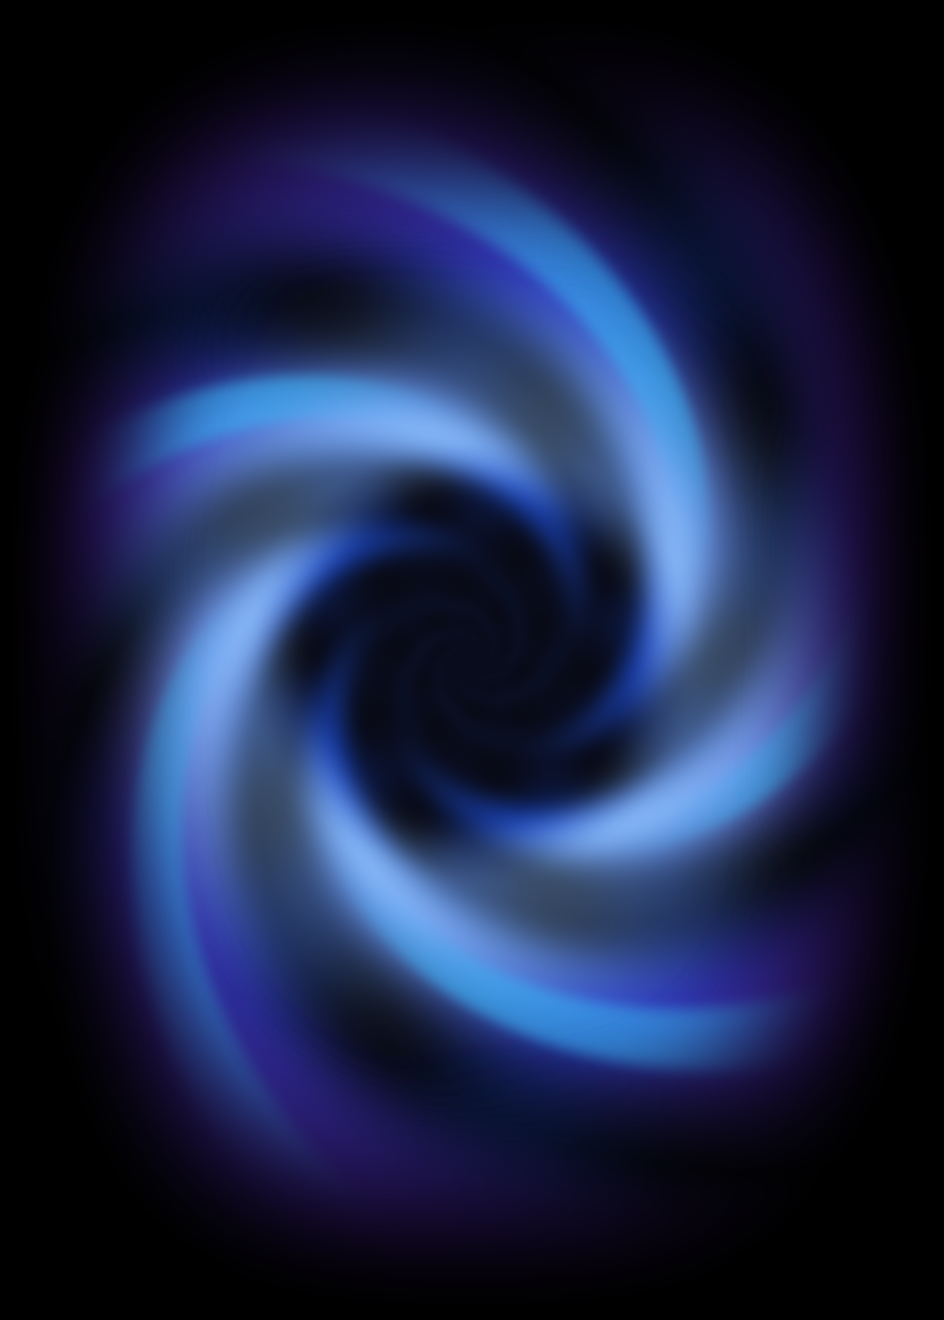
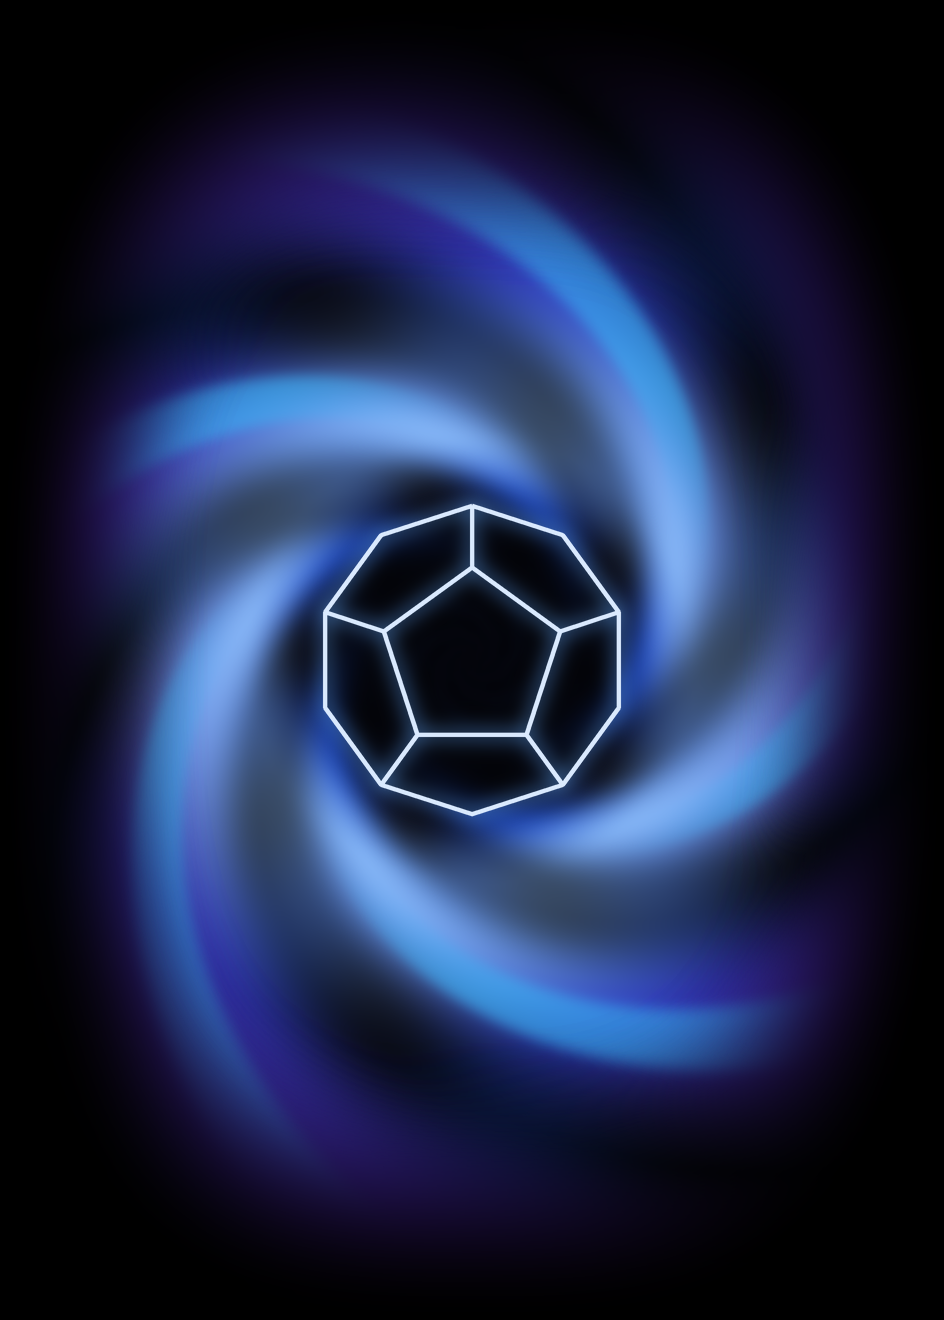
feat(cards): card back with a minimal gem in line
MINIMAL in build_cardback.py: the gem's girdle, table and edges in thin
light lines with a soft blue glow over a translucent dark inside.

Changed region(s): [[0.3686, 0.3727, 0.6758, 0.6212], [0.3072, 0.4348, 0.4301, 0.5591]]

diff --git a/design/cardback/build_cardback.py b/design/cardback/build_cardback.py
@@ -9,19 +9,21 @@ import os
 import sys
 
 import numpy as np
-from PIL import Image, ImageFilter
+from PIL import Image, ImageDraw, ImageFilter
 
 HERE = os.path.dirname(os.path.abspath(__file__))
 sys.path[:0] = [os.path.join(HERE, '..', 'home'), os.path.join(HERE, '..', 'logo')]
 
 import build_vortex as v  # noqa: E402
+import build_gem as geo  # noqa: E402
 import render_png as gem  # noqa: E402
 
 W, H = 472, 660
 SHAPE = 3  # the vortex's fade outline: 2 an ellipse, higher nearer the card's rectangle
 TWIST = 1.7  # how tightly the arms coil (the home's: 2.6)
 ARMS = 5  # the vortex's arms (the home's has 3)
-GEM = False  # the ERAS gem in the vortex's eye (off while the vortex is designed alone)
+GEM = False  # the ERAS gem, faceted, in the vortex's eye
+MINIMAL = True  # instead: the gem in line only (its girdle, table and the five edges between them)
 ACCENT = '#38bdf8'  # the vortex's accent arm: a light blue of the palette
 K = 2  # output scale
 NIGHT = (0, 0, 0, 255)  # the card's ground: black, the vortex fading into it
@@ -50,6 +52,35 @@ def vortex_on(iw, ih, vortex):
     im = Image.new('RGBA', (iw, ih), NIGHT)
     im.alpha_composite(vortex, ((iw - vortex.width) // 2, (ih - vortex.height) // 2))
     return im
+
+
+def minimal_gem(scene, size):
+    """The gem drawn in line over `scene` (H×W×4 floats), centered, `size` across: a translucent dark inside, so it reads
+    over the vortex, and thin light lines (the logo's girdle, table and edges) with a soft blue glow."""
+    ih, iw = scene.shape[:2]
+    ss = 3
+    k = size / 512 * ss
+    ox, oy = (iw - size) / 2 * ss, (ih - size) / 2 * ss
+    to = lambda p: (ox + p[0] * k, oy + p[1] * k)
+    fill = Image.new('L', (iw * ss, ih * ss), 0)
+    lines = Image.new('L', (iw * ss, ih * ss), 0)
+    ImageDraw.Draw(fill).polygon([to(p) for p in geo.D], fill=255)
+    d = ImageDraw.Draw(lines)
+    width = max(1, round(size * 0.011 * ss))
+    for ring in (geo.D, geo.P):
+        pts = [to(p) for p in ring]
+        d.line(pts + [pts[0]], fill=255, width=width, joint='curve')
+    for kk in range(5):
+        d.line([to(geo.P[kk]), to(geo.D[2 * kk])], fill=255, width=width)
+    fill = np.asarray(fill.resize((iw, ih), Image.LANCZOS), np.float32)[..., None] / 255
+    line = np.asarray(lines.resize((iw, ih), Image.LANCZOS), np.float32)[..., None] / 255
+    rgb = scene[..., :3]
+    rgb = rgb * (1 - fill * 0.6)                                   # the dark inside
+    glow = blur(line, size * 0.025) * 1.6
+    rgb = 1 - (1 - rgb) * (1 - np.clip(glow, 0, 1) * np.array([0.38, 0.65, 0.98], np.float32) * 0.8)
+    rgb = rgb * (1 - line) + np.array([0.86, 0.92, 1.0], np.float32) * line
+    scene[..., :3] = rgb
+    return scene
 
 
 def cardback():
@@ -99,6 +130,9 @@ def cardback():
         scene[..., :3] = 1 - (1 - scene[..., :3]) * (1 - np.clip(bloom, 0, 1))
 
         inner = Image.fromarray((np.clip(scene, 0, 1) * 255).round().astype(np.uint8), 'RGBA')
+
+    if MINIMAL:
+        inner = Image.fromarray((np.clip(minimal_gem(arr(inner), round(vs * 0.26)), 0, 1) * 255).round().astype(np.uint8), 'RGBA')
 
     card = inner
     return card.convert('RGB')
